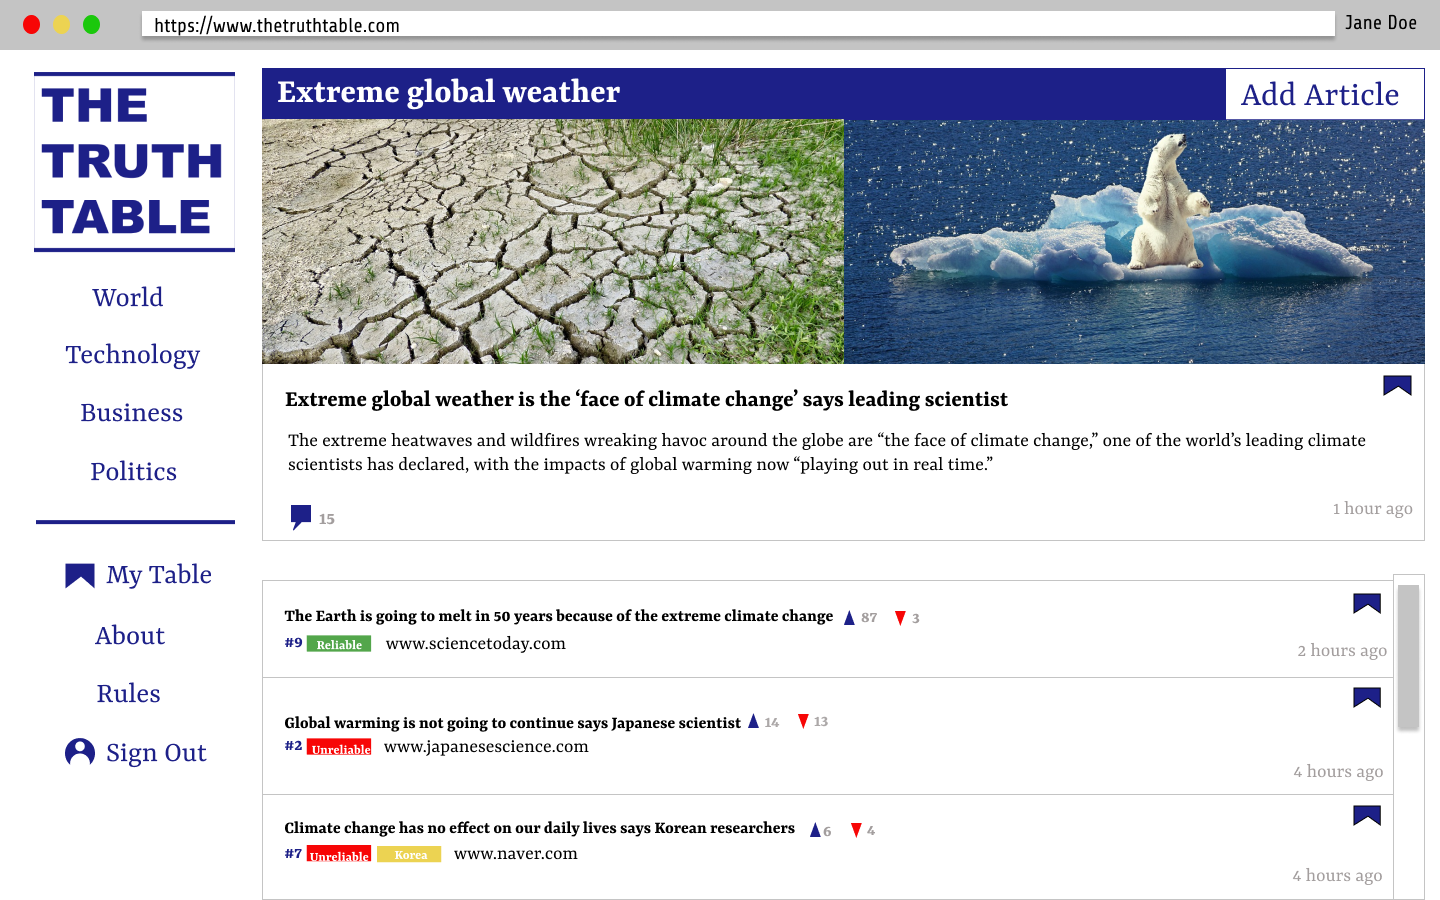
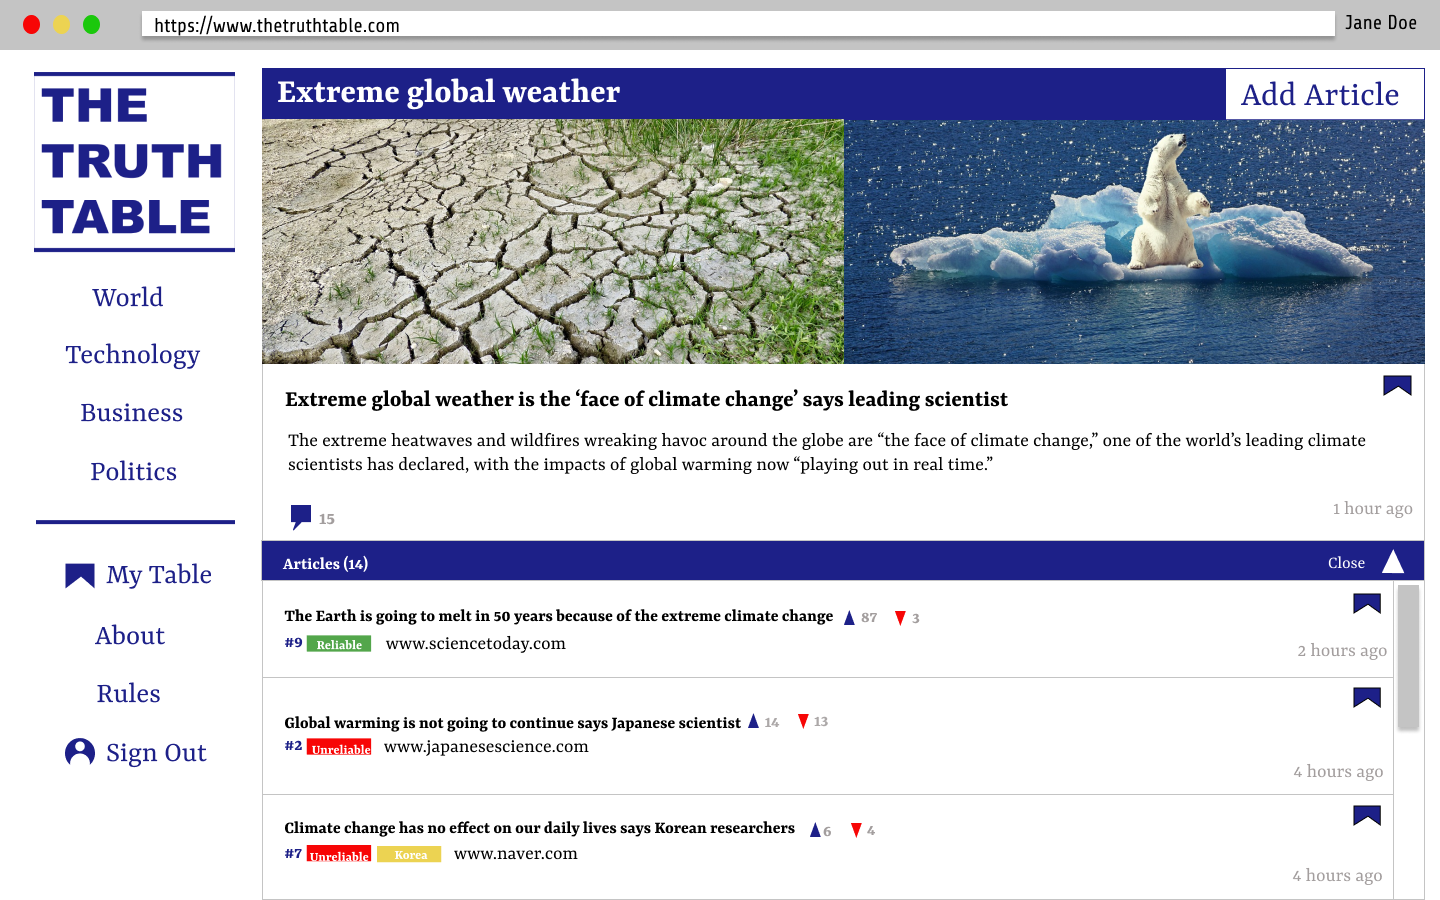
fixed the drop down article list bar on the topic page spread page;

Changed region(s): [[0.1562, 0.5911, 1.0, 0.6533]]

diff --git a/topicPageSpread.html b/topicPageSpread.html
@@ -23,7 +23,7 @@ img {
   <area shap="rect" coords="270,440,1400,470" alt="extremeWeatherText" href="topicPageVer3.html">
   <area shap="rect" coords="280,500,330,530" alt="extremeWeatherComment" href="topicPageVer3.html">
 
-  <area shap="rect" coords="1370,540,1420,590" alt="dropDownIcon" href="topicPageSpread.html">
+  <area shap="rect" coords="250,540,1420,590" alt="dropDownIcon" href="topicPageSpread.html">
 </map>
 </a>
 </body>
